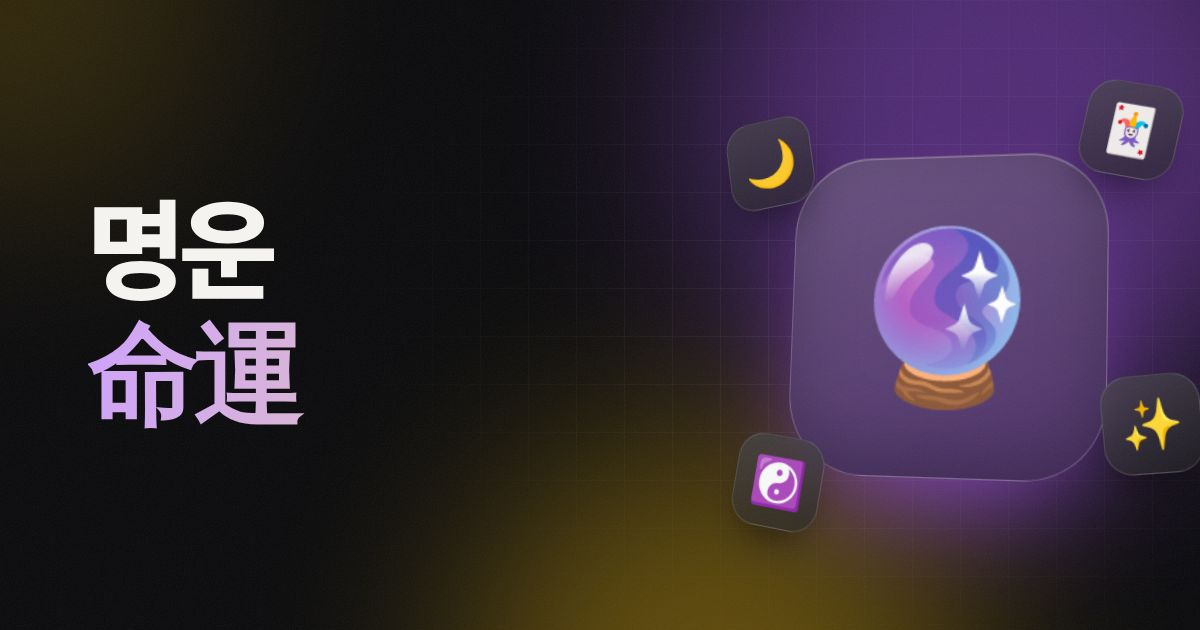
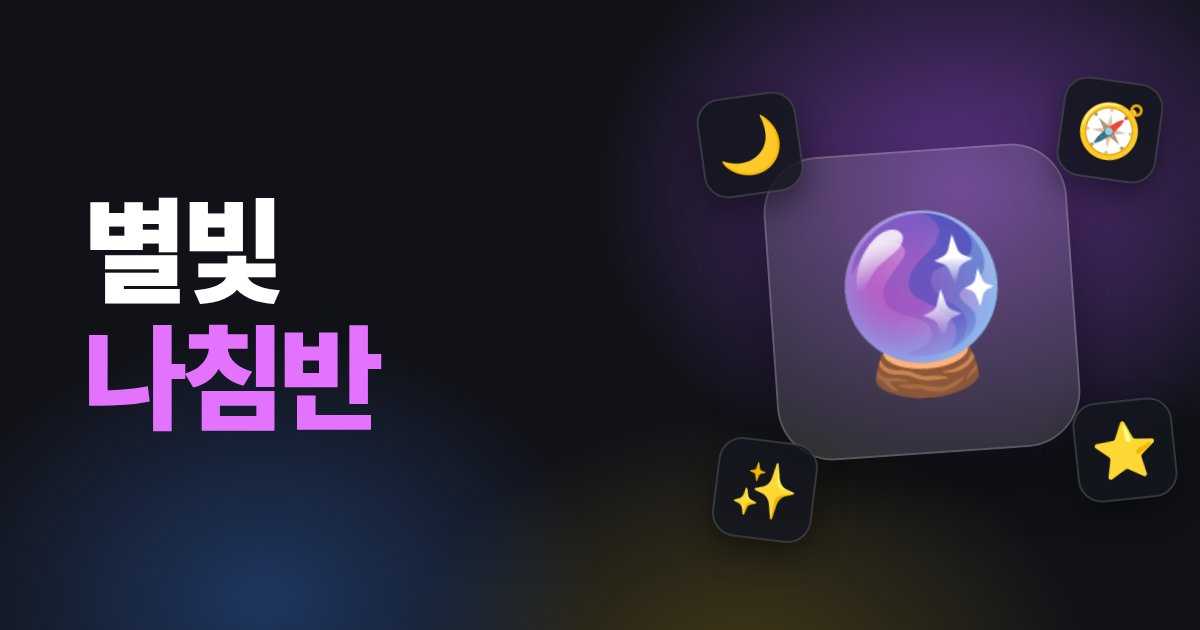
모음집 카드 '명운'을 '별빛 나침반'으로 이름·커버·설명 변경 (#44)
앱 리브랜딩에 맞춰 카드 이름, 설명, 커버 그림(?v=20261019)과 스킬 앱 목록 이름을 바꿈.

Claude-Session: https://claude.ai/code/session_01NaW5r8WBzNy5B2e9iMgdZz

diff --git a/index.html b/index.html
@@ -586,7 +586,7 @@
           <div class="showcase" aria-hidden="true">
             <div class="showcase-inner">
               <div class="shot s1"><img src="covers/for-teacher.jpg?v=20261009b" alt="" width="1200" height="630"></div>
-              <div class="shot s3"><img src="covers/destiny.jpg?v=20261009b" alt="" width="1200" height="630"></div>
+              <div class="shot s3"><img src="covers/destiny.jpg?v=20261019" alt="" width="1200" height="630"></div>
               <div class="shot s2"><img src="covers/asian-game.jpg?v=20261009b" alt="" width="1200" height="630"></div>
             </div>
           </div>
@@ -941,12 +941,12 @@
             },
             {
                 id: 'destiny',
-                cover: 'covers/destiny.jpg',
+                cover: 'covers/destiny.jpg?v=20261019',
                 accent: '#a855f7',
-                name: '명운 (命運)',
+                name: '별빛 나침반',
                 category: '여가용',
                 icon: '🔮',
-                desc: '이름, 생년월일, 성별, MBTI로 보는 사주·궁합·오늘의 운세와 타로',
+                desc: '이름·생년월일·MBTI로 찾는 나의 별빛 기질, 우정 케미, 마음 카드',
                 url: 'https://gmlduqzhd123-lab.github.io/destiny/'
             },
             {

diff --git a/.claude/skills/yeopssam-webapps/references/top-buttons-check.md b/.claude/skills/yeopssam-webapps/references/top-buttons-check.md
@@ -42,7 +42,7 @@
 - 우리 함께 아카펠라: 1줄 = 제목 + 설치·QR, 2줄 = 배지·사용법·스튜디오 (`.header-key` + `.header-break`). 스튜디오: 1줄 = 제목 + 설치·QR.
 - 역사 탐험 퀘스트: 1줄 = 앱 이름 + 「📲 설치」「📱 QR」.
 - Math Survival: 휴대폰은 시작 카드 맨 윗줄 오른쪽(제목은 아래), PC는 제목 줄 오른쪽.
-- 명운: 맨 윗줄 오른쪽(도장·제목은 아래).
+- 별빛 나침반(옛 이름 명운): 맨 윗줄 오른쪽(도장·제목은 아래).
 - 아카라카: 상단 버튼 순서 앱설치 → QR → 설명서 → 첫 음 잡기 → 곡 추가.
 - 패들렛 정리함: 1줄 = 제목 + 설치·QR, 2줄 = 「로컬 가져오기」.
 - 한글 마감실: 1줄 = 「한 한글 마감실」 + 설치·QR, 2줄 = 메뉴·시험판 표시.
